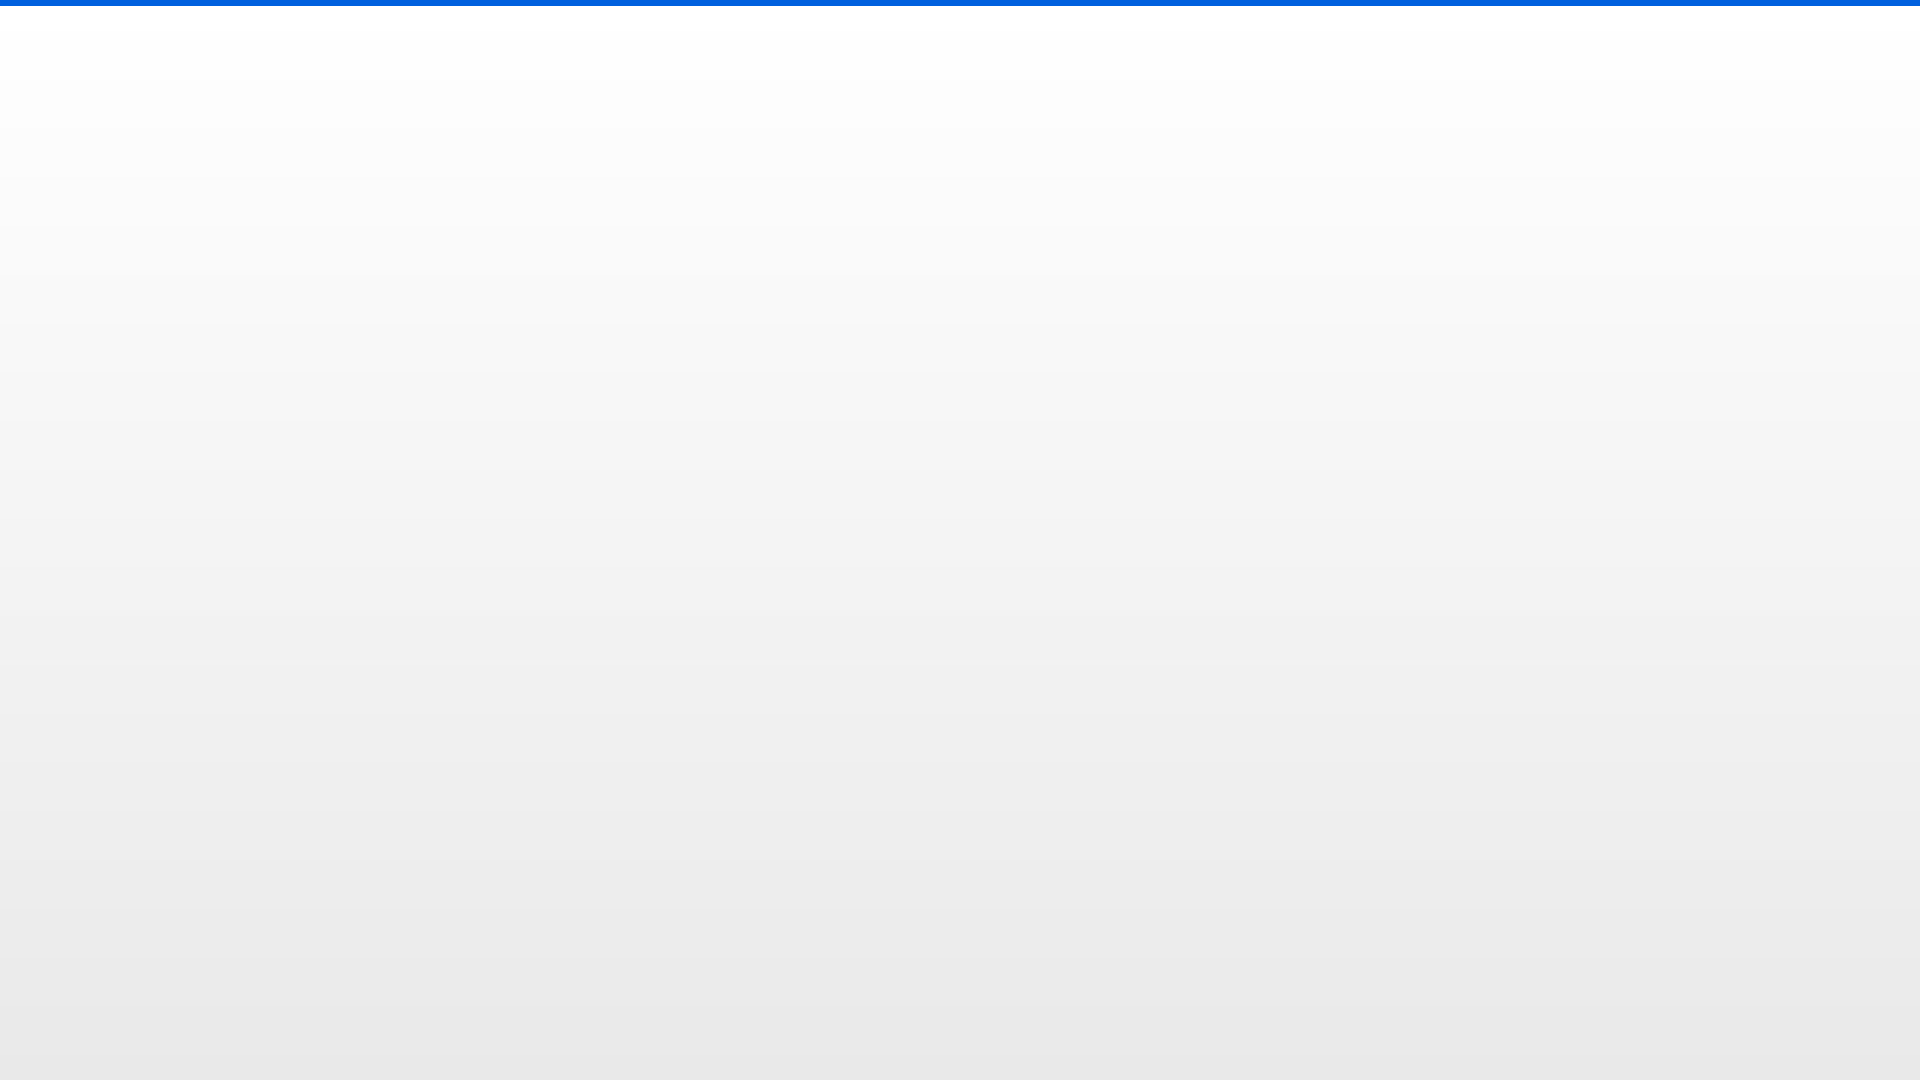
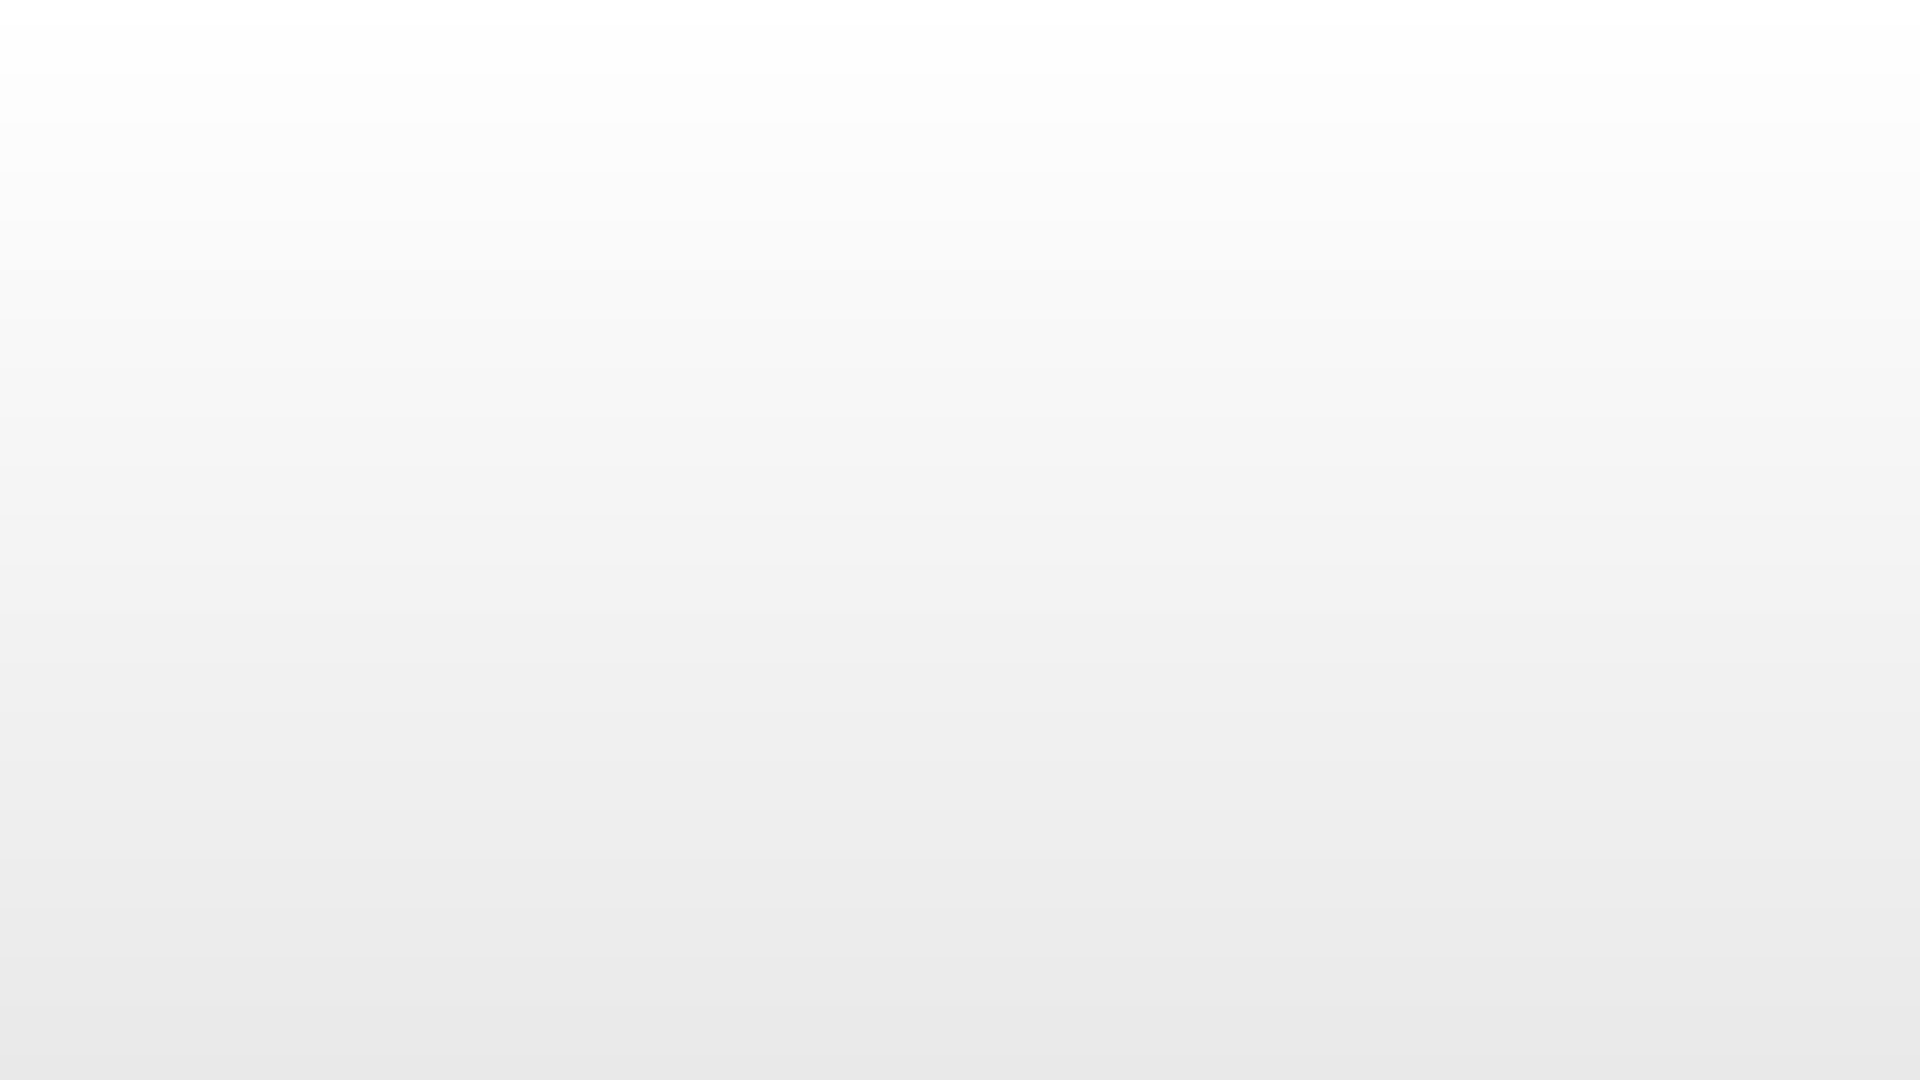
fix: remove blue strip from theme artwork

Changed region(s): [[0.0, 0.0, 1.0, 0.0306]]

diff --git a/tests/test_theme.py b/tests/test_theme.py
@@ -7,6 +7,7 @@ import subprocess
 import tempfile
 import tomllib
 import unittest
+import zlib
 from pathlib import Path
 
 
@@ -234,6 +235,21 @@ class AssetTests(unittest.TestCase):
         self.assertEqual(b"IHDR", data[12:16])
         return struct.unpack(">II", data[16:24])
 
+    def png_top_left_rgb(self, path):
+        data = path.read_bytes()
+        offset = 8
+        compressed = []
+        while offset < len(data):
+            length = struct.unpack(">I", data[offset : offset + 4])[0]
+            kind = data[offset + 4 : offset + 8]
+            payload = data[offset + 8 : offset + 8 + length]
+            if kind == b"IDAT":
+                compressed.append(payload)
+            offset += 12 + length
+        first_row = zlib.decompress(b"".join(compressed))
+        self.assertEqual(0, first_row[0], "Generated PNG must use filter type 0")
+        return tuple(first_row[1:4])
+
     def test_assets_have_expected_png_dimensions(self):
         for name in VARIANTS:
             expected = {
@@ -245,6 +261,16 @@ class AssetTests(unittest.TestCase):
             for path, dimensions in expected.items():
                 with self.subTest(path=path):
                     self.assertEqual(dimensions, self.png_dimensions(path))
+
+    def test_wallpaper_starts_with_neutral_surface_not_blue_accent(self):
+        expected = {
+            "macos-classic-light": (255, 255, 255),
+            "macos-classic-dark": (32, 32, 32),
+        }
+        for name, top_rgb in expected.items():
+            with self.subTest(name=name):
+                path = ROOT / name / "backgrounds" / f"{name}.png"
+                self.assertEqual(top_rgb, self.png_top_left_rgb(path))
 
 
 class InstallerTests(unittest.TestCase):

diff --git a/scripts/generate_assets.py b/scripts/generate_assets.py
@@ -12,12 +12,10 @@ THEMES = {
     "macos-classic-light": {
         "top": "#FFFFFF",
         "bottom": "#E9E9E9",
-        "accent": "#0060DE",
     },
     "macos-classic-dark": {
         "top": "#202020",
         "bottom": "#0B0B0B",
-        "accent": "#077CFD",
     },
 }
 
@@ -32,16 +30,12 @@ def chunk(kind, payload):
 
 
 def render_png(path, width, height, colors):
-    top, bottom, accent = (rgb(colors[key]) for key in ("top", "bottom", "accent"))
+    top, bottom = (rgb(colors[key]) for key in ("top", "bottom"))
     rows = []
-    accent_height = max(2, height // 180)
 
     for y in range(height):
-        if y < accent_height:
-            pixel = accent
-        else:
-            position = (y - accent_height) / max(1, height - accent_height - 1)
-            pixel = tuple(round(start + (end - start) * position) for start, end in zip(top, bottom))
+        position = y / max(1, height - 1)
+        pixel = tuple(round(start + (end - start) * position) for start, end in zip(top, bottom))
         rows.append(b"\x00" + bytes(pixel) * width)
 
     header = struct.pack(">IIBBBBB", width, height, 8, 2, 0, 0, 0)
